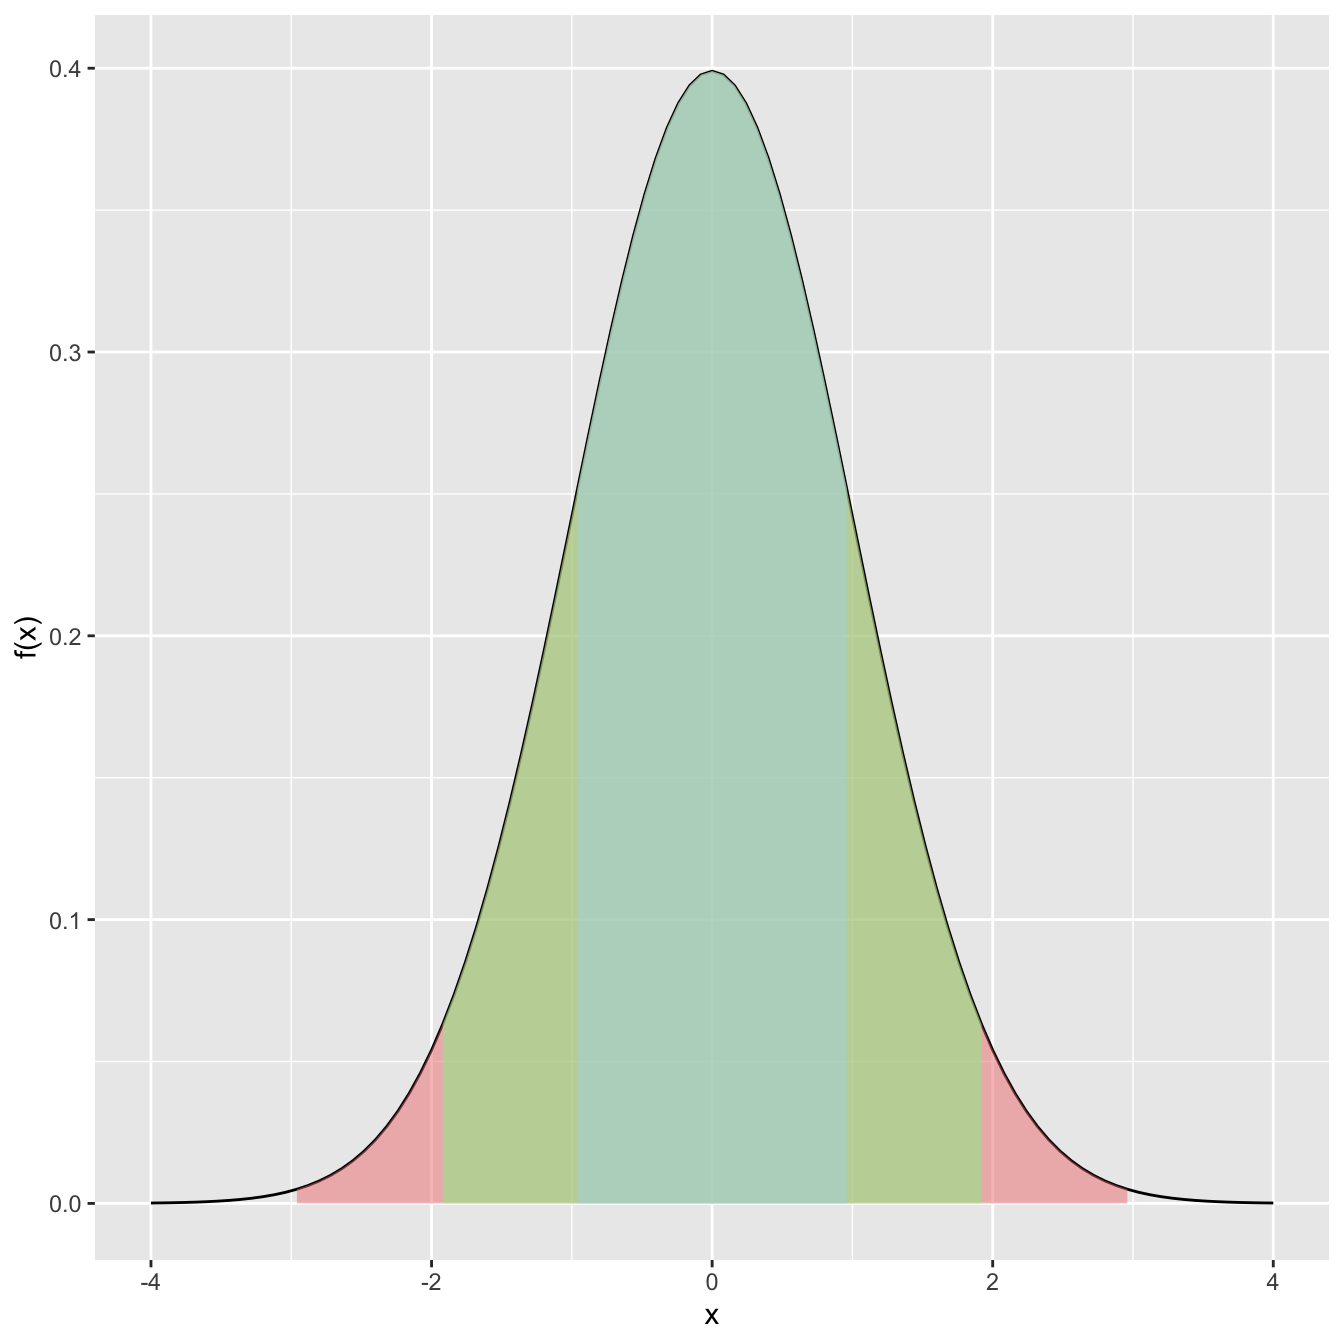
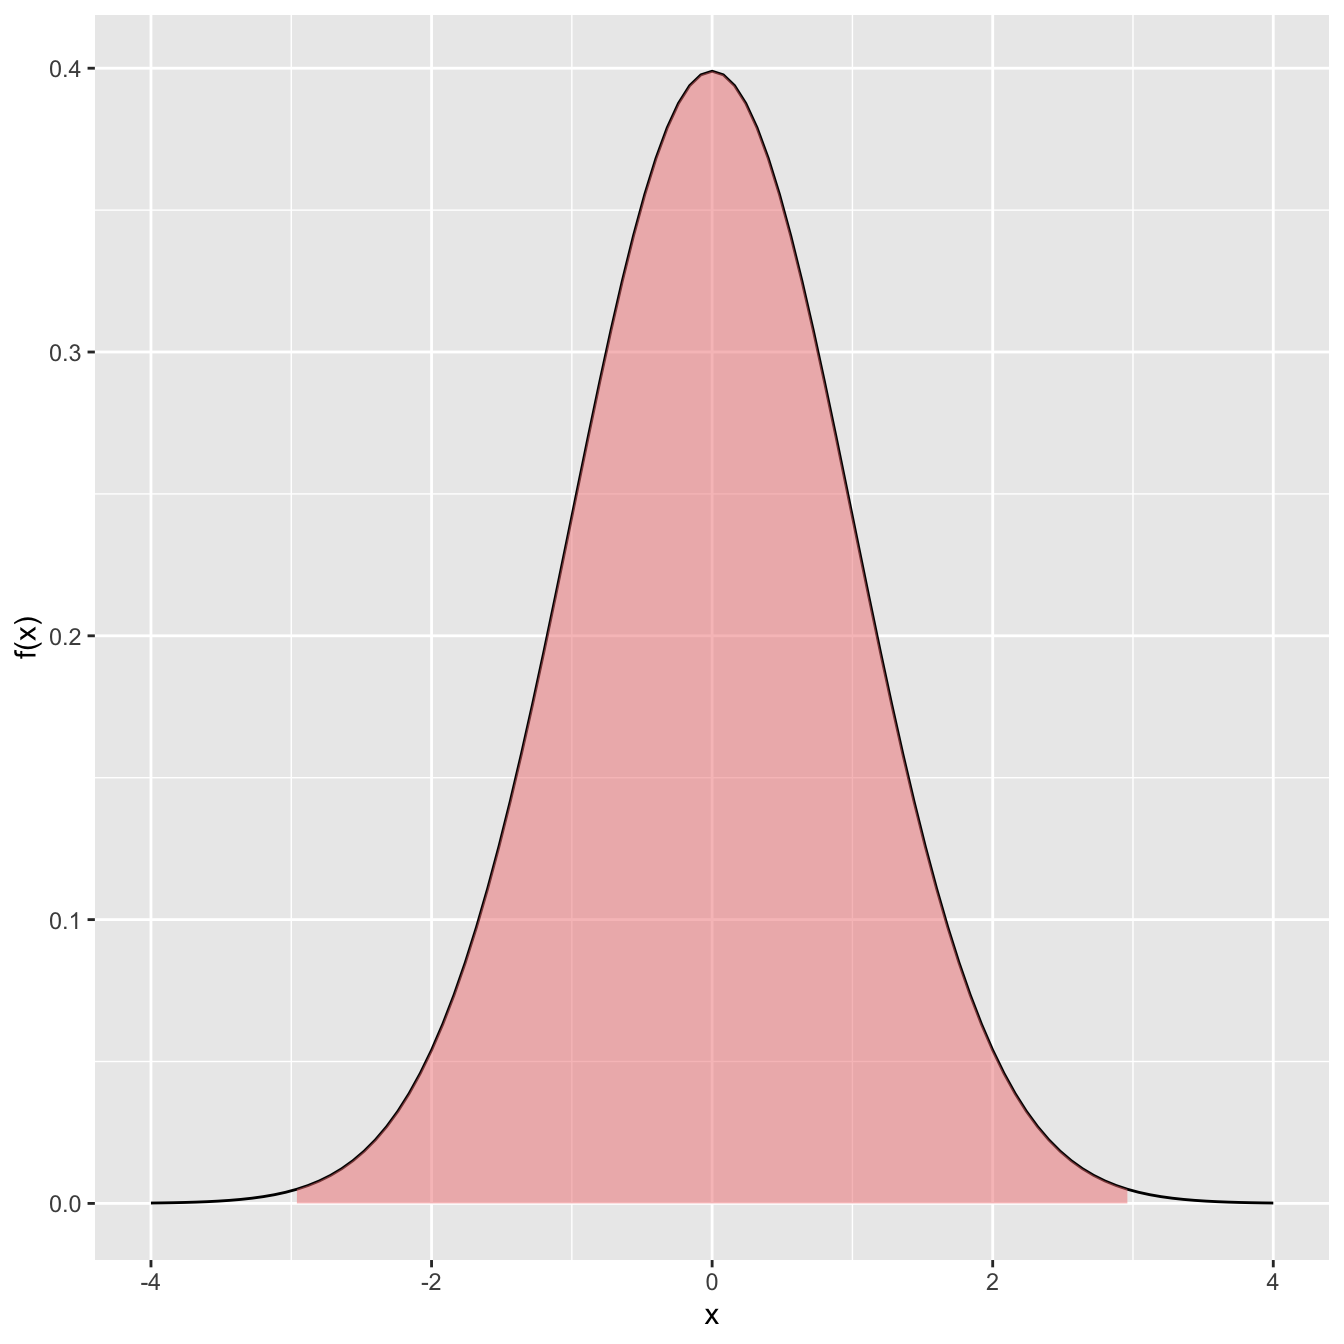
z-score

Changed region(s): [[0.3125, 0.0312, 0.75, 0.9062]]

diff --git a/_stat211/chapter3normal.html b/_stat211/chapter3normal.html
@@ -238,7 +238,8 @@
 <li><span class="math inline">\(\mu\)</span> is the expected value (<span class="math inline">\(E[X]\)</span>)</li>
 <li><span class="math inline">\(\sigma^2\)</span> is the variance of (Var<span class="math inline">\([X]\)</span>)</li>
 </ul>
-<p>Its pdf: <span class="math display">\[
+<p>Its pdf:</p>
+<p><span class="math display">\[
 f(x)=\frac1{(2\pi\sigma^2)^{1/2}}e^{-\frac{(x-\mu)^2}{2\sigma^2}}
 \]</span></p>
 <p><span class="subscript">(Just like the binomial, you don’t need to know this formula for this class)</span></p>
@@ -351,7 +352,9 @@ f(x)=\frac1{(2\pi\sigma^2)^{1/2}}e^{-\frac{(x-\mu)^2}{2\sigma^2}}
 </div>
 </div>
 <div class="fragment">
-<p><span class="smallCap">Values:</span> at what value <span class="math inline">\(x\)</span> does <span class="math inline">\(P(X\leq x) = .05\)</span>? . . .</p>
+<p><span class="smallCap">Values:</span> at what value <span class="math inline">\(x\)</span> does <span class="math inline">\(P(X\leq x) = .05\)</span>?</p>
+</div>
+<div class="fragment">
 <div class="cell">
 <div class="sourceCode cell-code" id="cb17"><pre class="sourceCode numberSource r number-lines code-with-copy"><code class="sourceCode r"><span id="cb17-1"><a href=""></a><span class="fu">qnorm</span>(.<span class="dv">05</span>,<span class="sc">-</span><span class="fl">3.2</span>,<span class="fu">sqrt</span>(<span class="dv">100</span>))</span></code><button title="Copy to Clipboard" class="code-copy-button"><i class="bi"></i></button><button title="Copy to Clipboard" class="code-copy-button"><i class="bi"></i></button></pre></div>
 <div class="cell-output cell-output-stdout">
@@ -430,7 +433,8 @@ In particular, any linear combination of Normal rvs is again a Normal:
 <p>If we multiply/add constants <span class="math inline">\(a,b\)</span> to <span class="math inline">\(X\)</span> to form a new rv <span class="math inline">\(Y\)</span>:</p>
 <p><span class="math display">\[
 Y  = aX + b
-\]</span> then <span class="math inline">\(Y \sim(a\mu + b, a^2 \sigma^2)\)</span></p>
+\]</span></p>
+<p>then <span class="math inline">\(Y \sim(a\mu + b, a^2 \sigma^2)\)</span></p>
 <p><span class="subscript">(This should remind you of our <span class="math inline">\(E[X]\)</span> and <span class="math inline">\(Var[X]\)</span> results)</span></p>
 <p><span class="example">Example:</span></p>
 <p>If <span class="math inline">\(X \sim N(150,100)\)</span> then</p>
@@ -473,7 +477,7 @@ P(1 - .001 \leq Y \leq 1 + .001) &amp; = P(.999 \leq Y \leq 1.001) \\
 <h2>The Standard Normal Distribution</h2>
 <p>When <span class="math inline">\(\mu=0\)</span> and <span class="math inline">\(\sigma=1\)</span>, we call it the <span class="definition">standard normal</span></p>
 <p><span class="math display">\[
-        f(x)=\frac1{\sqrt{2\pi}}e^{-x^2/2},\,\,-\infty&lt;x&lt;\infty.
+f(x)=\frac1{\sqrt{2\pi}}e^{-x^2/2},\,\,-\infty&lt;x&lt;\infty.
 \]</span></p>
 <p><span class="subscript">(Once again, you don’t need to know this formula for this class)</span></p>
 <p>The standard normal will be notated as: <span class="math inline">\(Z \sim N(0,1)\)</span></p>
@@ -481,7 +485,8 @@ P(1 - .001 \leq Y \leq 1 + .001) &amp; = P(.999 \leq Y \leq 1.001) \\
 <p>Going from a general normal to a standard normal is known as <span class="definition">standardization</span></p>
 <p><span class="math display">\[
 X \sim N(\mu, \sigma^2) \longrightarrow Z = \frac{X - \mu}{\sigma} \sim N(0,1)
-\]</span> The opposite (actually, the <span class="definition">inverse</span>) is true</p>
+\]</span></p>
+<p>The opposite (actually, the <span class="definition">inverse</span>) is true</p>
 <p><span class="math display">\[
 Z \sim N(0, 1) \longrightarrow X = Z \sigma + \mu \sim N(\mu,\sigma^2)
 \]</span></p>
@@ -492,12 +497,14 @@ Z \sim N(0, 1) \longrightarrow X = Z \sigma + \mu \sim N(\mu,\sigma^2)
 <h2>Z-scores: Comparing values</h2>
 <p>If we are given a value <span class="math inline">\(x\)</span> from a distribution with mean <span class="math inline">\(\mu\)</span> and variance <span class="math inline">\(\sigma^2\)</span>, we can compute its <span class="definition">z-score</span> via</p>
 <p><span class="math display">\[
-\pre{z-score} = \frac{x - \mu}{\sigma}
+\text{z-score} = \frac{x - \mu}{\sigma}
 \]</span></p>
 <p>The main use case is comparing values from two different distributions</p>
 <p><span class="smallCap">Question:</span> Which of the two values is more <span class="emphasis">extreme</span>?</p>
-<p><span class="smallCap">Answer:</span> Whichever has large <span class="emphasis">magnitude</span> z-score (that is, |z-score|)</p>
-<p><span class="example">Example:</span> We want to compare olympic records in men’s sprinting (9.63 seconds) and women’s sprinting (10.61 seconds)</p>
+<p><span class="smallCap">Answer:</span> Whichever has larger <span class="emphasis">magnitude</span> z-score</p>
+<p><span class="subscript">(that is, largest |z-score|)</span></p>
+<div class="fragment">
+<p><span class="example">Example:</span> We want to compare olympic records in men’s sprinting and women’s sprinting</p>
 <p>Which is more extreme? Let’s look at a table:</p>
 <table class="caption-top table">
 <caption>Table of Average and Standard Deviation of Olympic Sprinting times.</caption>
@@ -519,15 +526,22 @@ Z \sim N(0, 1) \longrightarrow X = Z \sigma + \mu \sim N(\mu,\sigma^2)
 <td style="text-align: right;">.0046</td>
 <td style="text-align: right;">.0049</td>
 </tr>
+<tr class="odd">
+<td>record</td>
+<td style="text-align: right;">9.63</td>
+<td style="text-align: right;">10.61</td>
+</tr>
 </tbody>
 </table>
+</div>
 <div class="fragment">
 <p>Let’s compute the two <span class="definition">z-scores</span>:</p>
 <div class="cell">
 <div class="sourceCode cell-code" id="cb25"><pre class="sourceCode numberSource r number-lines code-with-copy"><code class="sourceCode r"><span id="cb25-1"><a href=""></a>zScoreMen   <span class="ot">=</span>  (<span class="fl">9.63</span> <span class="sc">-</span> <span class="fl">9.85</span>)<span class="sc">/</span><span class="fu">sqrt</span>(.<span class="dv">0057</span>)</span>
 <span id="cb25-2"><a href=""></a>zScoreWomen <span class="ot">=</span>  (<span class="fl">10.61</span> <span class="sc">-</span> <span class="fl">10.83</span>)<span class="sc">/</span><span class="fu">sqrt</span>(.<span class="dv">0049</span>)</span></code><button title="Copy to Clipboard" class="code-copy-button"><i class="bi"></i></button><button title="Copy to Clipboard" class="code-copy-button"><i class="bi"></i></button></pre></div>
 </div>
-<p>The z-score for men is -2.9139712 while for women it is <code>zScoreWomen</code>. Hence, the women’s result is more extreme as:</p>
+<p>The z-score for men is -2.914 while for women it is -3.143</p>
+<p>Hence, the women’s result is more extreme as:</p>
 <div class="cell">
 <div class="sourceCode cell-code" id="cb26"><pre class="sourceCode numberSource r number-lines code-with-copy"><code class="sourceCode r"><span id="cb26-1"><a href=""></a><span class="fu">abs</span>(zScoreMen) <span class="sc">&lt;</span> <span class="fu">abs</span>(zScoreWomen)</span></code><button title="Copy to Clipboard" class="code-copy-button"><i class="bi"></i></button><button title="Copy to Clipboard" class="code-copy-button"><i class="bi"></i></button></pre></div>
 <div class="cell-output cell-output-stdout">
@@ -542,6 +556,35 @@ Z \sim N(0, 1) \longrightarrow X = Z \sigma + \mu \sim N(\mu,\sigma^2)
 <p><span class="subscript">(This is sometimes known as the <span class="definition">empirical rule</span>)</span></p>
 <div class="columns">
 <div class="column" style="width:50%;">
+<div class="cell">
+<div class="cell-output-display">
+<div>
+<figure class="figure">
+<p><img data-src="chapter3normal_files/figure-revealjs/normalEmpRuleGeneral-1.png" style="width:100.0%" class="figure-img"></p>
+</figure>
+</div>
+</div>
+</div>
+<p>. . .</p>
+<div class="cell">
+<div class="cell-output-display">
+<div>
+<figure class="figure">
+<p><img data-src="chapter3normal_files/figure-revealjs/unnamed-chunk-10-1.png" width="960" class="figure-img"></p>
+</figure>
+</div>
+</div>
+</div>
+<p>. . .</p>
+<div class="cell">
+<div class="cell-output-display">
+<div>
+<figure class="figure">
+<p><img data-src="chapter3normal_files/figure-revealjs/unnamed-chunk-11-1.png" width="960" class="figure-img"></p>
+</figure>
+</div>
+</div>
+</div>
 <ul>
 <li><span class="lightbluetext"><span class="math inline">\(P( |X - \mu| \leq \sigma) = 0.683\)</span></span></li>
 <li><span class="lightgreentext"><span class="math inline">\(P( |X - \mu| \leq 2\sigma) = 0.954\)</span></span></li>
